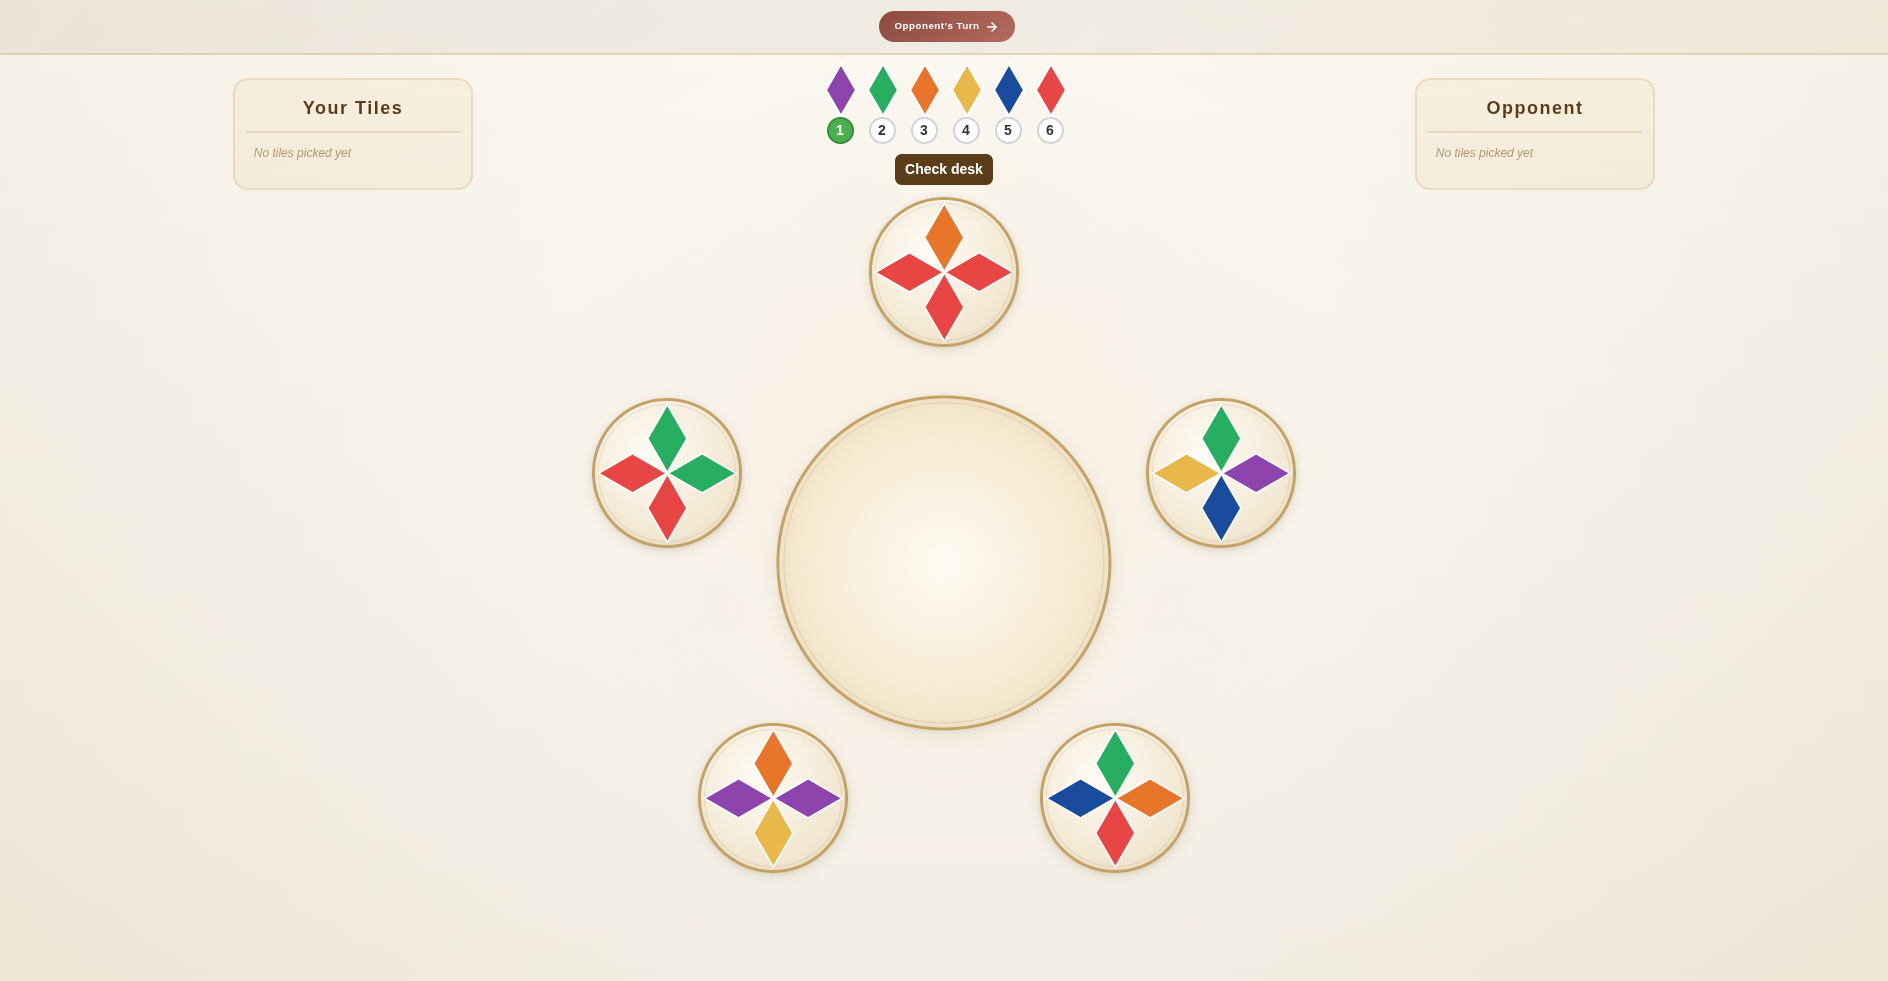
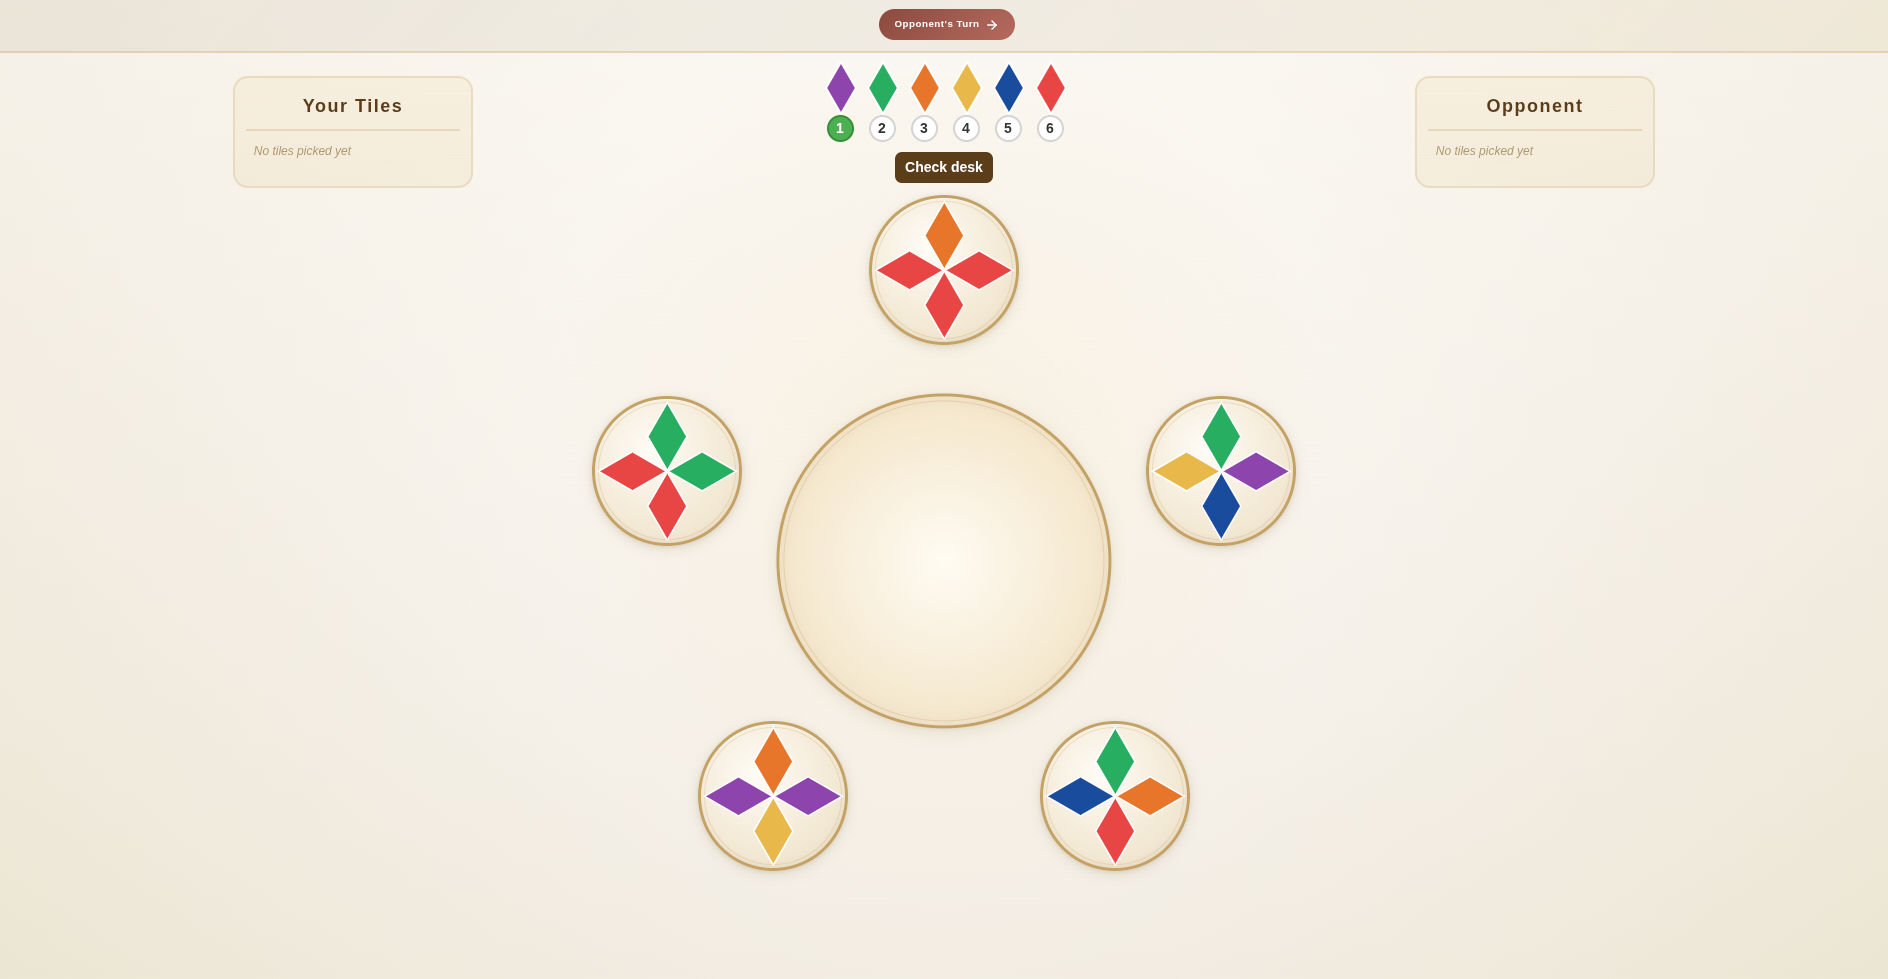
add pwa support

diff --git a/src/app/layout.tsx b/src/app/layout.tsx
@@ -18,6 +18,9 @@ export default function RootLayout({
 }>) {
     return (
         <html lang="en">
+            <head>
+                <link rel="manifest" href="/manifest.json" />
+            </head>
             <body>{children}</body>
         </html>
     );